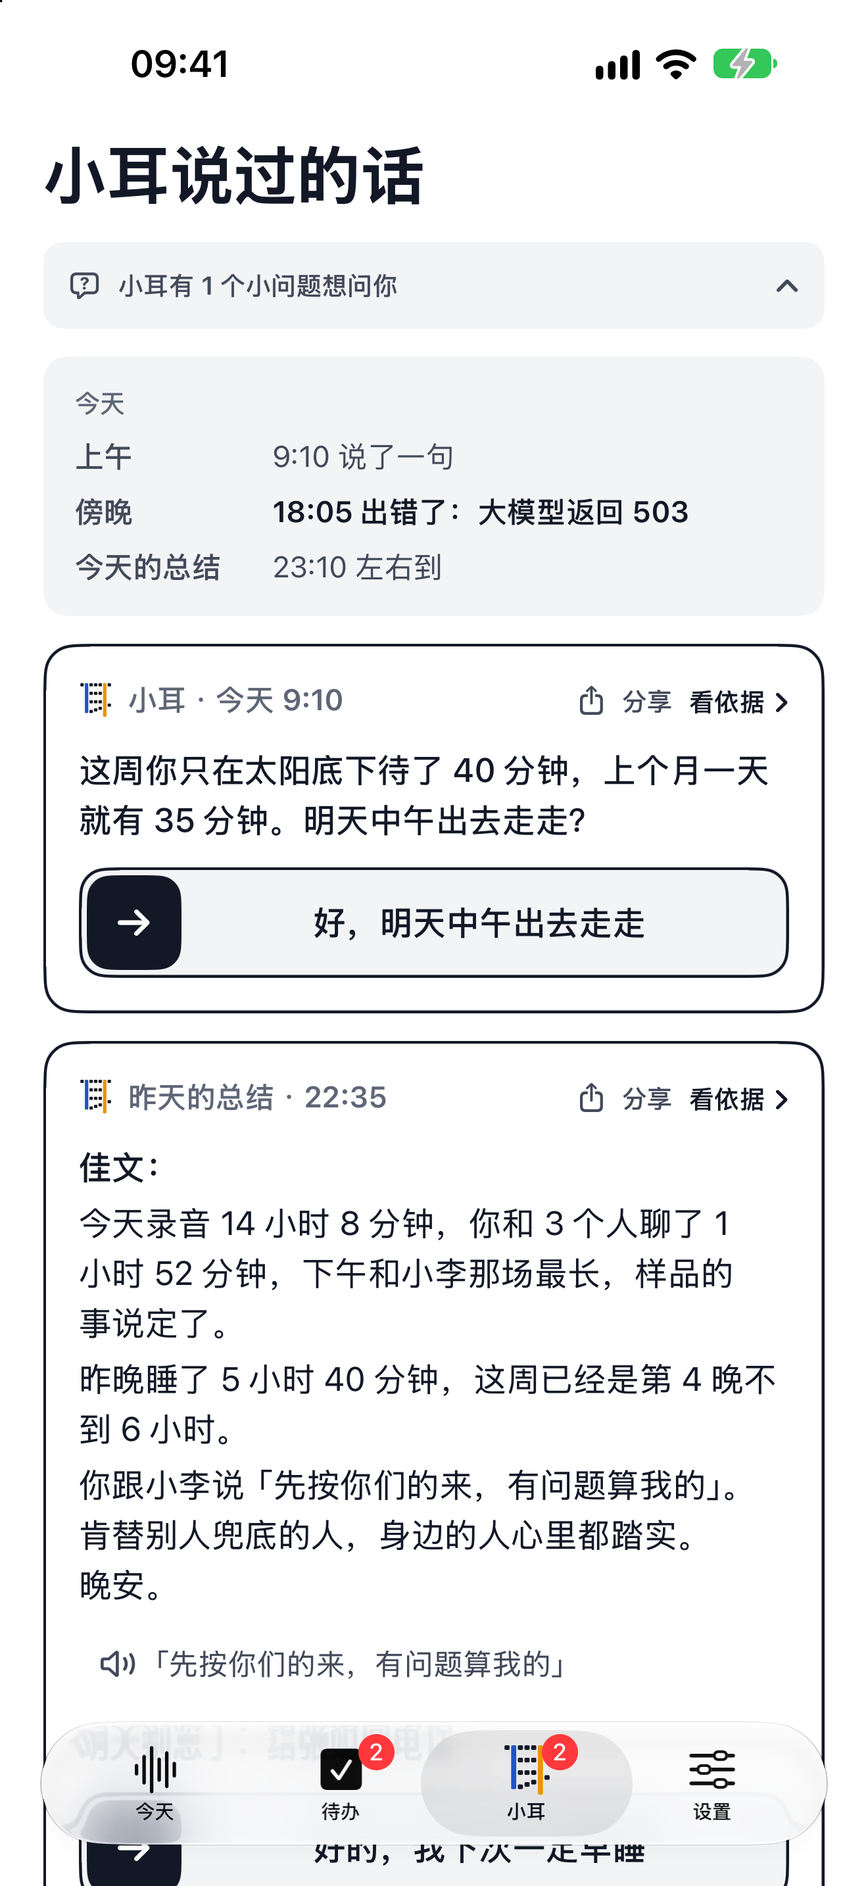
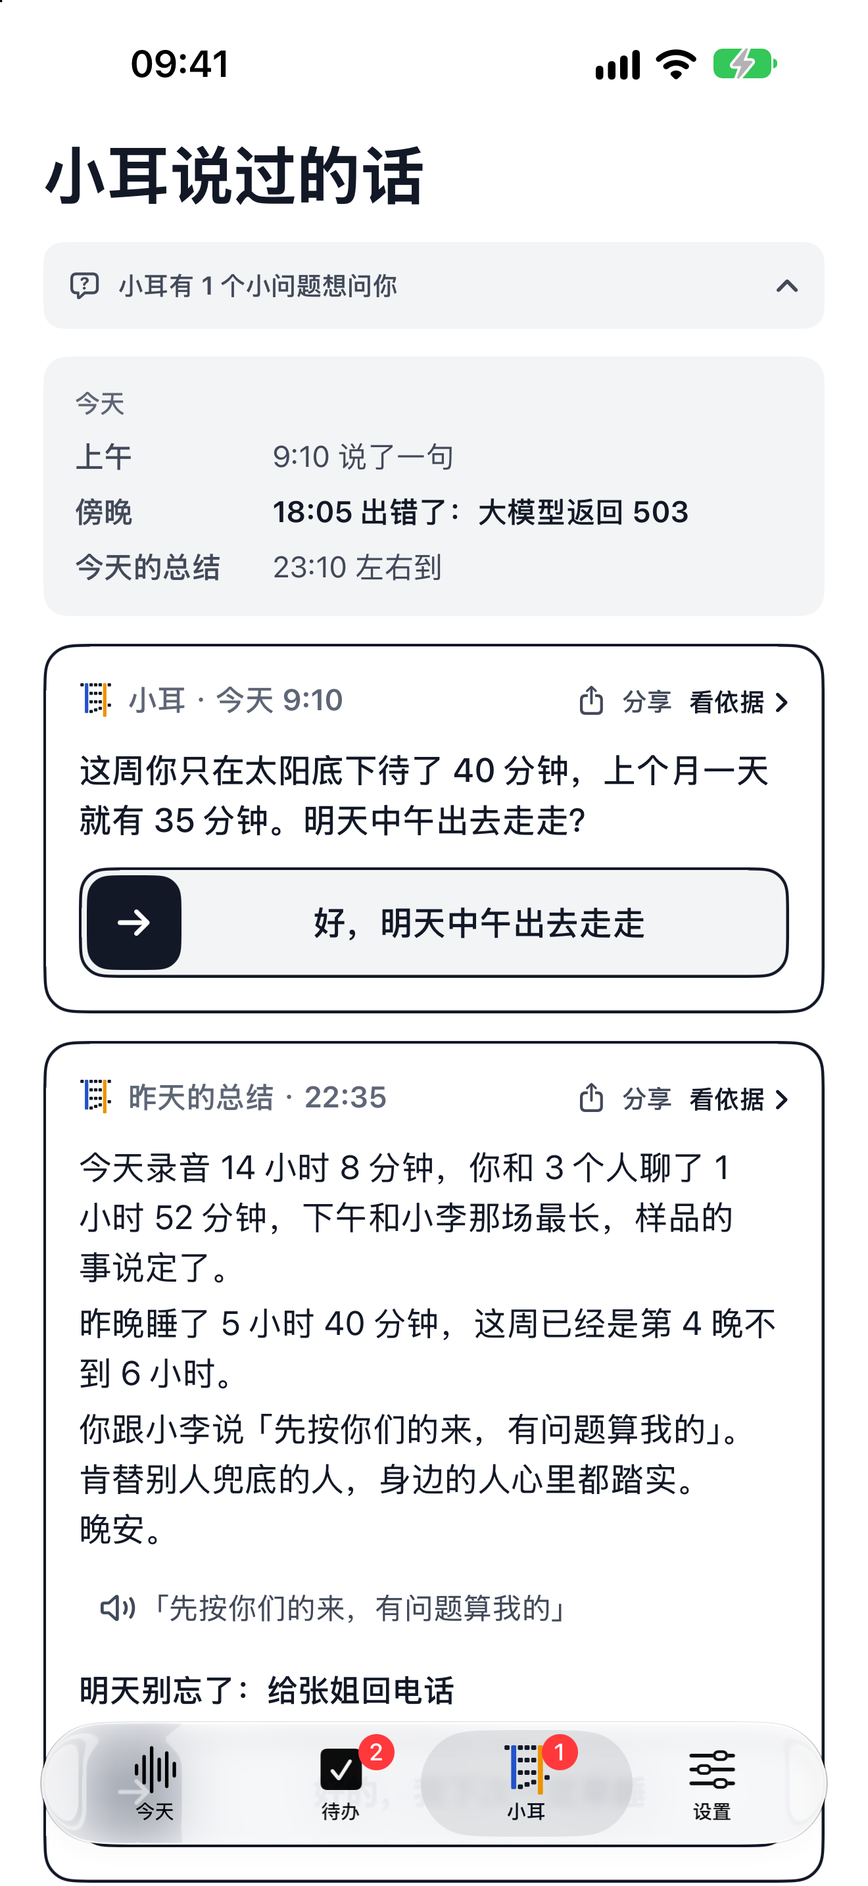
feat(fanear): 截图按 0.3.0（505）重拍 10 张，手表「自己停的」换成时钟对得上的那张
饭耳主线 2d3b6514 的调试版去掉内测编译开关后在模拟器拍（App 代码不变），原图在饭耳仓库
本地资料/website-030-20261017/。换了：今天、小耳（动效叠层坐标跟着重排）、时段页（原来是旧的单场页）、
声音、语音转文字、分享图、清单、须知（第 11 版）、待办列表、手表录音中（「标重点」）。
另 7 张逐像素比过，界面没变，不动。手表「自己停的」旧图表上是 13:26，跟「14:32 你自己停的」对不上，换成 14:52 拍的。

Claude-Session-Id: f098ccee-6518-4413-af2f-a68291ae739a

Changed region(s): [[0.0311, 0.5896, 0.9629, 1.0]]

diff --git a/sites/fanear/src/lib/shots.ts b/sites/fanear/src/lib/shots.ts
@@ -1,7 +1,12 @@
 // App 截图：iOS 27 / watchOS 27 模拟器 + App 自带的演示数据（人名、对话都是编的）。
-// 这一版是 0.2.0 合进饭耳 main（8a16607）以后重拍的（10-16）：饭耳仓库 本地资料/website-020-20261015/ 下两个目录，
-//   shots-020-1015-1614       商店模式（scripts/mac/sim-shots.sh --store）：大多数图从这里来
-//   shots-020-demo-1015-1623  普通演示模式：只用了「小耳说过的话」（商店模式不加载小耳的演示卡片）
+// 这一版是按 0.3.0（饭耳 main 2d3b6514，505 构建）重拍的（10-17）：饭耳仓库 本地资料/website-030-20261017/ 下，
+//   shots-030-store-public-1017        商店模式（scripts/mac/sim-shots.sh --store）：0.3.0 改到的手机图大多从这里来
+//   shots-030-store-public-share-1017  同上，只拍「分享这一场」（FANEAR_SHOT_WAIT=25，等面板升到顶）
+//   shots-030-demo-public-1017         普通演示模式：只用了「小耳说过的话」（商店模式不加载小耳的演示卡片）
+//   shots-030-watch-1017               手表「正在录」（北京时间下午拍，表上时钟对得上演示里的时间）
+//   拍的是本地截图分支 work/site-shots-030-20261017 的 b033a163：只把调试版的内测编译开关去掉（自建服务、环境和语气这类只在内测版有的东西就不出现），
+//   App 代码和 2d3b6514 一样；分支用完删了。0.3.0 没改到的图（待办、搜索、介绍、先录上、装手表、手表被打断/自己停的）照旧用 10-16 那一版，
+//   10-17 也照样拍了对过，除了日期、表上时钟和底部横条，没有别的不同。
 // 底部页签都是「今天 - 待办 - 小耳 - 设置」。
 //   from   这张图是从哪拷来的（饭耳仓库 fanear/ 下的路径）
 //   redo   以后哪次改版会改到这一屏、所以必须重拍；空数组 = 现在不用重拍
@@ -41,15 +46,16 @@ export interface Shot {
 }
 
 const STORE = 'fanear/本地资料/website-020-20261015/shots-020-1015-1614';
-const DEMO = 'fanear/本地资料/website-020-20261015/shots-020-demo-1015-1623';
+const STORE_030 = 'fanear/本地资料/website-030-20261017/shots-030-store-public-1017';
+const DEMO_030 = 'fanear/本地资料/website-030-20261017/shots-030-demo-public-1017';
 
 export const SHOTS = {
 	today: {
 		src: phoneToday,
 		device: 'phone',
 		caption: '今天',
-		alt: '手机上的「今天」：最上面一条深色横条「让饭耳更好用，已设好 4/7，还差 3 项」和「继续设置」；下面 10月16日 周五，右上角绿点「录音正常」；深色横幅「1 件今天要做，另有 2 张新卡等你滑」和「去处理」；一张卡写着「今天 32 块转写完，2 块失败，1 块还在转，1 块你删掉了」，下面是 8 点到 18 点的时间条，再下面「2 块没转成文字、1 块整理失败」旁边是「全部重试」；最后是「今天 2 个时段」，15:38 那一段没转成文字，写着原因「网络连不上」，带「重试」「复制排错提示词」「去设置」。',
-		from: `${STORE}/phone-today.png`,
+		alt: '手机上的「今天」：最上面一条深色横条「让饭耳更好用，已设好 5/8，还差 3 项」和「继续设置」；下面 10月17日 周六，旁边能翻前一天后一天，还有一个「…」，右上角放大镜和绿点「录音正常」；一条灰底的「健康」：心率变异性今天 44 毫秒，在平时范围里；深色横幅「1 件今天要做，另有 2 张新卡等你滑」和「去处理」；一张卡写着「今天 32 块转写完，2 块失败，1 块还在转，1 块你删掉了」，下面是 8 点到 18 点的时间条，再下面「2 块没转成文字、1 块整理失败」旁边是「全部重试」；最后是「今天 2 个时段」，15:38 那一段没转成文字，写着原因「网络连不上」，带「重试」「复制排错提示词」「去设置」。',
+		from: `${STORE_030}/phone-today.png`,
 		redo: [],
 	},
 	todoDeck: {
@@ -64,32 +70,32 @@ export const SHOTS = {
 		src: phoneTodoList,
 		device: 'phone',
 		caption: '清单',
-		alt: '待办里的「清单」：上面分「我要做的 2」「等别人的 1」；「已过期」一件「把报价单发给刘总」，「没说日子」一件「下周带新米样品去刘总店里」，下次明早 8:30 提醒；再下面「已结束 2 张」可以展开，最下面一行「小耳没放进来的 3 条」。',
-		from: `${STORE}/phone-todo-list.png`,
+		alt: '待办里的「清单」：上面分「我要做的 2」「等别人的 1」；「已过期」一件「把报价单发给刘总」，「没说日子」一件「下周带新米样品去刘总店里」，下次明早 8:30 提醒；再下面「已结束 3 张」可以展开，最下面一行「小耳没放进来的 3 条」。',
+		from: `${STORE_030}/phone-todo-list.png`,
 		redo: [],
 	},
 	care: {
 		src: phoneCare,
 		device: 'phone',
 		caption: '小耳说过的话',
-		alt: '「小耳说过的话」页：顶上一行「小耳有 1 个小问题想问你」；「今天」一栏写着上午 9:10 说了一句、傍晚 18:05 出错了：大模型返回 503、今天的总结 23:10 左右到；第一张卡是小耳今天 9:10 说的「这周你只在太阳底下待了 40 分钟，上个月一天就有 35 分钟。明天中午出去走走？」，下面的滑条写着「好，明天中午出去走走」；第二张是昨天 22:35 的总结，整封写在卡上：「佳文：今天录音 14 小时 8 分钟，你和 3 个人聊了 1 小时 52 分钟……晚安。」，下面一句能点了听的原话「先按你们的来，有问题算我的」。',
-		from: `${DEMO}/phone-care-notebook.png`,
+		alt: '「小耳说过的话」页：顶上一行「小耳有 1 个小问题想问你」；「今天」一栏写着上午 9:10 说了一句、傍晚 18:05 出错了：大模型返回 503、今天的总结 23:10 左右到；第一张卡是小耳今天 9:10 说的「这周你只在太阳底下待了 40 分钟，上个月一天就有 35 分钟。明天中午出去走走？」，下面的滑条写着「好，明天中午出去走走」；第二张是昨天 22:35 的总结，整封写在卡上：「今天录音 14 小时 8 分钟，你和 3 个人聊了 1 小时 52 分钟……晚安。」，下面一句能点了听的原话「先按你们的来，有问题算我的」，再下面「明天别忘了：给张姐回电话」。',
+		from: `${DEMO_030}/phone-care-notebook.png`,
 		redo: [],
 	},
 	conversation: {
 		src: phoneConversation,
 		device: 'phone',
-		caption: '一段对话',
-		alt: '一段对话的页面：上面分「转写」「重点」「总结」三栏，现在在「转写」；一句一行，每句写几点说的，左边一道颜色条是谁说的：10:31「配送这边，周三上午能出两车，下午那车得等司机回来。」下面写着「已抓成一件，在滑卡里等你滑」，10:33 这句正在放「王经理那边周三一定要到，先排他。」，没认出是谁的句子旁边有「标记说话人」；10:39 一条状态「说到对账时小陈有点发怔」；最下面是播放器：进度 3:32 / 30:00，「1x」、往回 15 秒、暂停、往前 15 秒。',
-		from: `${STORE}/phone-conversation-player.png`,
+		caption: '一个时段',
+		alt: '一个时段的页面：顶上分「重点」「转写」「总结」，现在在「转写」；先是「大纲」，列着 09:30 和老周看样品、10:30 和小陈开周会；下面是转写，「和老周看样品 · 09:30–09:45」，每句上面一行小灰字写几点几分几秒、谁说的（我、老周、说话人 1），正在放的那句「闻着挺香，价钱跟上回一样吗？」底下有一道浅灰；有的句子下面写着「已抓成一件，在滑卡里等你滑」「已进待办」；往下到「和小陈开周会」，有一行「你在手表上标了重点 · 10:32:00」；底部页签上方飘着一条小播放条：暂停键、09:32:41、和老周看样品，右边一个放大键。',
+		from: `${STORE_030}/phone-episode-player.png`,
 		redo: [],
 	},
 	voices: {
 		src: phoneVoices,
 		device: 'phone',
 		caption: '认出的声音',
-		alt: '设置里的「声音」：已识别 5 个；「我」累计 24 分钟、2 天；「老周 · 2 个声音」下面分第 1 个声音、第 2 个声音；还有小陈、王经理、老姑，各写累计说了多久、出现几天、第一次和最近一次；最下面是「未识别 · 1 个」。',
-		from: `${STORE}/phone-settings-voices.png`,
+		alt: '设置里的「声音」：已识别 5 个，每个名字前面一个颜色点；「我」累计 26 分钟、2 天；「老周 · 2 个声音」下面分第 1 个声音、第 2 个声音；还有小陈、王经理、老姑，各写累计说了多久、出现几天、第一次和最近一次；最下面是「未识别 · 1 个」。',
+		from: `${STORE_030}/phone-settings-voices.png`,
 		redo: [],
 	},
 	search: {
@@ -104,16 +110,16 @@ export const SHOTS = {
 		src: phoneAsr,
 		device: 'phone',
 		caption: '语音转文字',
-		alt: '设置里的「语音转文字」：火山引擎（收费、效果最佳，标准版 0.8 元/小时）正在用；腾讯云已配好，按钮「设为正在用」；苹果自带转写（不联网，免费、效果一般）；SenseVoice（下载到手机，不联网，免费、效果一般，约 163MB）。每家写着实测「每 100 个字约几个和火山转的不一样」。',
-		from: `${STORE}/phone-lasr-engines.png`,
+		alt: '设置里的「语音转文字」：火山引擎（收费、效果最佳，标准版 0.8 元/小时）正在用；腾讯云、阿里云百炼（千问语音识别）都已配好，各有一个「设为正在用」；苹果自带转写（不联网，免费、效果一般）；SenseVoice（下载到手机，不联网，免费、效果一般，约 163MB）。每家写着实测「每 100 个字约几个和火山转的不一样」。',
+		from: `${STORE_030}/phone-lasr-engines.png`,
 		redo: [],
 	},
 	share: {
 		src: phoneShare,
 		device: 'phone',
 		caption: '分享这一场',
-		alt: '「分享这一场」：预览是一张粉色的图，标题「新品包装定稿会」、一条声纹色条和几条要点；下面选版式（声纹条、杂志、极简）、比例（3:4、9:16、1:1）、配色；「隐去别人的名字」「带时间」都开着；底部「存到相册」「分享」。',
-		from: `${STORE}/phone-share-panel.png`,
+		alt: '「分享这一场」：预览是一张粉色的图，标题「新品包装定稿会」、一条声纹色条、谁说了多久（我 · 18 分，说话人 2 · 14 分……）和几条要点，图底写着「饭耳 · 你的 AI 全天助理」和官网地址；下面选版式（声纹条、杂志、极简）、比例（3:4、9:16、1:1）、配色；「隐去别人的名字」「带时间」都开着；底部「存到相册」「分享」。',
+		from: 'fanear/本地资料/website-030-20261017/shots-030-store-public-share-1017/phone-share-panel.png',
 		redo: [],
 	},
 	intro: {
@@ -128,8 +134,8 @@ export const SHOTS = {
 		src: phoneConsent,
 		device: 'phone',
 		caption: '使用前须知',
-		alt: '「使用前须知」（第 10 版）：4 条都要勾（转文字、整理对话用的都是你自己的账号；饭耳收不到也不存任何用户数据；免费、按现状提供；录别人之前先取得对方同意），每条可以展开说明；可选一条（整理对话、找一句关照、写每天的总结时，把健康数据发给我的大模型）；底部「同意并开始使用」。',
-		from: `${STORE}/phone-onboarding.png`,
+		alt: '「使用前须知」（第 11 版，更新于 2026-10-17）：4 条都要勾（转文字、整理对话用的都是你自己的账号；饭耳收不到也不存任何用户数据；免费、按现状提供；录别人之前先取得对方同意），每条可以展开说明；可选一条（整理对话、找一句关照、写每天的总结时，把健康数据发给我的大模型）；底部「同意并开始使用」。',
+		from: `${STORE_030}/phone-onboarding.png`,
 		redo: [],
 	},
 	setup: {
@@ -144,8 +150,8 @@ export const SHOTS = {
 		src: phoneChecklist,
 		device: 'phone',
 		caption: '让饭耳更好用',
-		alt: '「让饭耳更好用」：已设好 2/7；「录得稳」下面是停了自动接上（按钮「允许」）、加到常用表盘（「看怎么加」）、接不上时喊你（已设好）；「录得安心」下面是来消息照样震（已设好）、别人看不到你在录（「看怎么设」）；每项旁边可以点「不需要」；底部「稍后再设」。',
-		from: `${STORE}/phone-setup-guide.png`,
+		alt: '「让饭耳更好用」：已设好 4/8；「录得稳」下面是停了自动接上（按钮「允许」）、手机在后台也能叫手表（已设好）、加到常用表盘（「看怎么加」）、接不上时喊你（已设好）；「录得安心」下面是来消息照样震（已设好）；每项旁边可以点「不需要」；底部「稍后再设」。',
+		from: `${STORE_030}/phone-setup-guide.png`,
 		redo: [],
 	},
 	watchInstall: {
@@ -160,9 +166,9 @@ export const SHOTS = {
 		src: watchRecording,
 		device: 'watch',
 		caption: '正在录',
-		alt: '手表正在录：今天已录 6 小时 12 分，电量 63%，已传到手机 5 小时 30 分，待传 2 块、等连上手机，下面是「停止录音」按钮。',
-		// 表上的时钟是拍摄时的北京时间（watchOS 模拟器改不了时钟）：10-16 14:53 重拍，对得上这一天下午的演示
-		from: 'fanear/本地资料/website-020-20261015/shots-watch-1016-1450/watch-recording.png',
+		alt: '手表正在录：今天已录 6 小时 12 分，电量 63%，已传到手机 5 小时 30 分，待传 2 块、等连上手机；最下面左边一个大的「标重点」，右边一个窄的停止键。',
+		// 表上的时钟是拍摄时的北京时间（watchOS 模拟器改不了时钟）：10-17 14:51 重拍，对得上这一天下午的演示
+		from: 'fanear/本地资料/website-030-20261017/shots-030-watch-1017/watch-recording.png',
 		redo: [],
 	},
 	watchInterrupted: {
@@ -178,7 +184,7 @@ export const SHOTS = {
 		device: 'watch',
 		caption: '自己停的',
 		alt: '自己停了录音的手表：没在录，今天已录 6 小时 12 分，已传到手机 6 小时 12 分，14:32 你自己停的，下面是「开始录音」按钮。',
-		from: 'fanear/本地资料/tf-feedback-20261014/shots-E/watch-synced.png（旧图，核对过 main 8a16607 界面一致，时钟对得上「14:32」）',
+		from: 'fanear/本地资料/website-030-20261017/shots-030-watch-1017/watch-synced.png（10-17 北京 14:52 拍；旧图表上是 13:26，跟「14:32 你自己停的」对不上）',
 		redo: [],
 	},
 } as const satisfies Record<string, Shot>;

diff --git a/sites/fanear/src/lib/shot-motion.ts b/sites/fanear/src/lib/shot-motion.ts
@@ -6,8 +6,9 @@
 //   小耳：Apps/iOS/Care/SlideToConfirm.swift（滑条）、CareNotebookView.swift（收下后这张离开、下面的顶上来）
 //
 // 下面的坐标都是截图上的点：截图 1320×2868 像素 = 440×956 点 @3x，页面上跟着手机宽度等比缩放（容器单位）。
-// 量自饭耳 main 8a16607 重拍的截图（10-16，见 lib/shots.ts）；以后换截图要重量：卡片、滑条、页签栏的位置，
-// 待办的下一张要重裁，小耳下面补画的那一截（第二张的下半截、「以前的」）要照新图重排。
+// 待办量自饭耳 main 8a16607 重拍的截图（10-16）；小耳量自 0.3.0（饭耳 2d3b6514）重拍的截图（10-17），见 lib/shots.ts。
+// 以后换截图要重量：卡片、滑条、页签栏的位置，待办的下一张要重裁，小耳下面补画的那一截（第二张的下半截、「以前的」）要照新图重排。
+// 小耳下面那一截可以对着同一次拍的 care-notebook-past（滚到「以前的」那屏）量：两屏「先按你们的来」那行差 633.33 点（每次拍滚到的位置不一样，要重量）。
 import type { ImageMetadata } from 'astro';
 import todoNextCard from '../assets/shots/phone-todo-deck-next.png';
 import type { ShotId } from './shots';
@@ -67,9 +68,9 @@ export const CARE_MOTION = {
 	shift: 201.33,
 	/** 下面那一截（第二张、「以前的」）从这里开始；到 seam 为止用截图像素 */
 	below: 514,
-	/** 截图像素用到这一行为止：第二张「先按你们的来」那行下面的空白，再往下有页签栏挡着，
+	/** 截图像素用到这一行为止：第二张「明天别忘了：给张姐回电话」那行下面的空白（864.67–872.33），再往下有页签栏挡着，
 	 *  接着画第二张的下半截和「以前的」 */
-	seam: 862,
+	seam: 868,
 	/** 滑条（SlideToConfirm：高 56、滑块 48、内边 4、圆角 14/12） */
 	track: { x: 40, y: 439.67, w: 360, h: 56 },
 	knob: { x: 44, y: 443.67, w: 48, h: 48 },
@@ -81,41 +82,42 @@ export const CARE_MOTION = {
 	tabBar: { x: 20, y: 872, w: 400, h: 64 },
 } as const;
 
-// 第二张（昨天的总结，整封写在卡上，CareFeed.CareWaitingCard + CareCards.CareLetterText）在截图上只露到「先按你们的来」那行，
-// 下半截在页签栏底下：「明天别忘了：给张姐回电话」（16 点半粗，CareDemoData.lastNightUnread 的 todos）、滑条、卡底。
-// 滑条和卡底跟第一张一模一样，直接借第一张那一截像素（从滑轨上沿上 2 点到卡底）挪下来，只把滑条上的字换成这一封的回话。
-// 位置：露在页签栏下面的滑条字（底 945）和它在第一张里的位置（底 = 滑轨上沿 + 36.67）推出滑轨上沿 908.33，
-// 再往上照第一张「字到滑轨 16 点」推出「明天别忘了」那行；卡底 = 滑轨下沿 + 18；「以前的」和小卡照 CareNotebookView 的间距接着排。
+// 第二张（昨天的总结，整封写在卡上，CareFeed.CareWaitingCard + CareCards.CareLetterText）：0.3.0 卡上不再单写一行「佳文：」，
+// 整封往上收了 28.33 点，截图上露到「明天别忘了：给张姐回电话」那行（849.67–863.67，已在截图像素里，不用再画），
+// 下半截在页签栏底下：滑条、卡底。滑条和卡底跟第一张一模一样，直接借第一张那一截像素（从滑轨上沿上 2 点到卡底）挪下来，
+// 只把滑条上的字换成这一封的回话。位置都量自同一次拍的 care-notebook-past（换算到这一屏 +633.33）：
+// 滑轨上沿 880.33、卡底 954.67、「以前的」、两张小卡约 1002–1175；后两样在页面上实测比 App 高 1–1.7 点，按实测各往下挪了一点。
 export const CARE_LETTER_TAIL = {
-	/** 卡身左右两道竖边：截图上「先按你们的来」那行下面 854–861 这一截只有白底和两道边，竖着拉长接到借来的滑条上 */
-	band: { from: 854, h: 7, to: 860 },
-	todo: { x: 40, baseline: 891.5, text: '明天别忘了：给张姐回电话' },
-	/** 借第一张的：从 y 437.67 起、到卡底 514，挪到 906.33 */
-	borrow: { from: 437.67, to: 906.33, h: 76.33 },
+	/** 卡身左右两道竖边：截图上「明天别忘了」那行下面 865–872 这一截只有白底和两道边，竖着拉长接到借来的滑条上 */
+	band: { from: 865, h: 7, to: 866 },
+	/** 「明天别忘了：给张姐回电话」0.3.0 截图上已经露出来了（基线约 862），这里不再补画，字留空 */
+	todo: { x: 40, baseline: 862, text: '' },
+	/** 借第一张的：从 y 437.67 起、到卡底 514，挪到 878.33（滑轨上沿 880.33 上 2 点） */
+	borrow: { from: 437.67, to: 878.33, h: 76.33 },
 	reply: '好的，我下次一定早睡',
-	/** 「以前的」：13 点半粗，卡底下 31 点是基线 */
-	pastLabel: { x: 22, baseline: 1013.3 },
+	/** 「以前的」：13 点半粗；基线按页面上实测对齐 App（care-notebook-past 换算后字底 985.33） */
+	pastLabel: { x: 22, baseline: 985.9 },
 } as const;
 
 // 「以前的」瀑布流（CareFeed.swift：两列，每列宽 193，列间 10，卡内边 12，圆角 14；
 // 字：顶上一行 13 点半粗、那句话 15 点行距 21、「你回」13 点半粗；总结写全部几段，最多 5 行，放不下末尾「…」）。
 // 字取自 App 演示数据 Apps/iOS/Care/CareDemoData.swift 的 older()；分到哪列照 CareMasonry.split 算：
-// 截图拍于 10 月 16 日（北京时间），按 older() 的 days 偏移：左列 昨天 18:20、10月13日 9:30、10月11日 9:05，右列 10月14日的总结、10月12日的总结。
-// 挪上来以后屏幕上只露得到两列的第一张，所以只画这两张；折行是按卡宽估的（截图里看不到）。
+// 截图拍于 10 月 17 日（北京时间），按 older() 的 days 偏移：左列 昨天 18:20、10月13日的总结，右列 10月15日的总结、10月14日 9:30、10月12日 9:05
+// （同一次拍的 care-notebook-past 里看得到）。挪上来以后屏幕上只露得到两列的第一张，所以只画这两张；字和折行照 care-notebook-past 抄。
 export const CARE_TILES: readonly CareTile[] = [
 	{
 		x: 22,
-		top: 1033.33,
-		bottom: 1206.33,
+		top: 1003,
+		bottom: 1176,
 		meta: '昨天 18:20',
 		lines: ['上午你说「腰又有点酸」，', '这 3 天你每天只走了', '3000 多步，平时一天有', '8000 步。晚上出去走', '一圈？'],
 		reply: '好，吃完饭就去',
 	},
 	{
 		x: 225,
-		top: 1033.33,
-		bottom: 1206.33,
-		meta: '10月14日的总结',
+		top: 1003,
+		bottom: 1176,
+		meta: '10月15日的总结',
 		lines: ['中午你出去走了 25 分钟，', '晒到了这周最多的一次', '太阳。', '晚上你说「今天效率挺', '高」，6 场对话里有 4 场…'],
 		reply: '晚安小耳',
 	},
